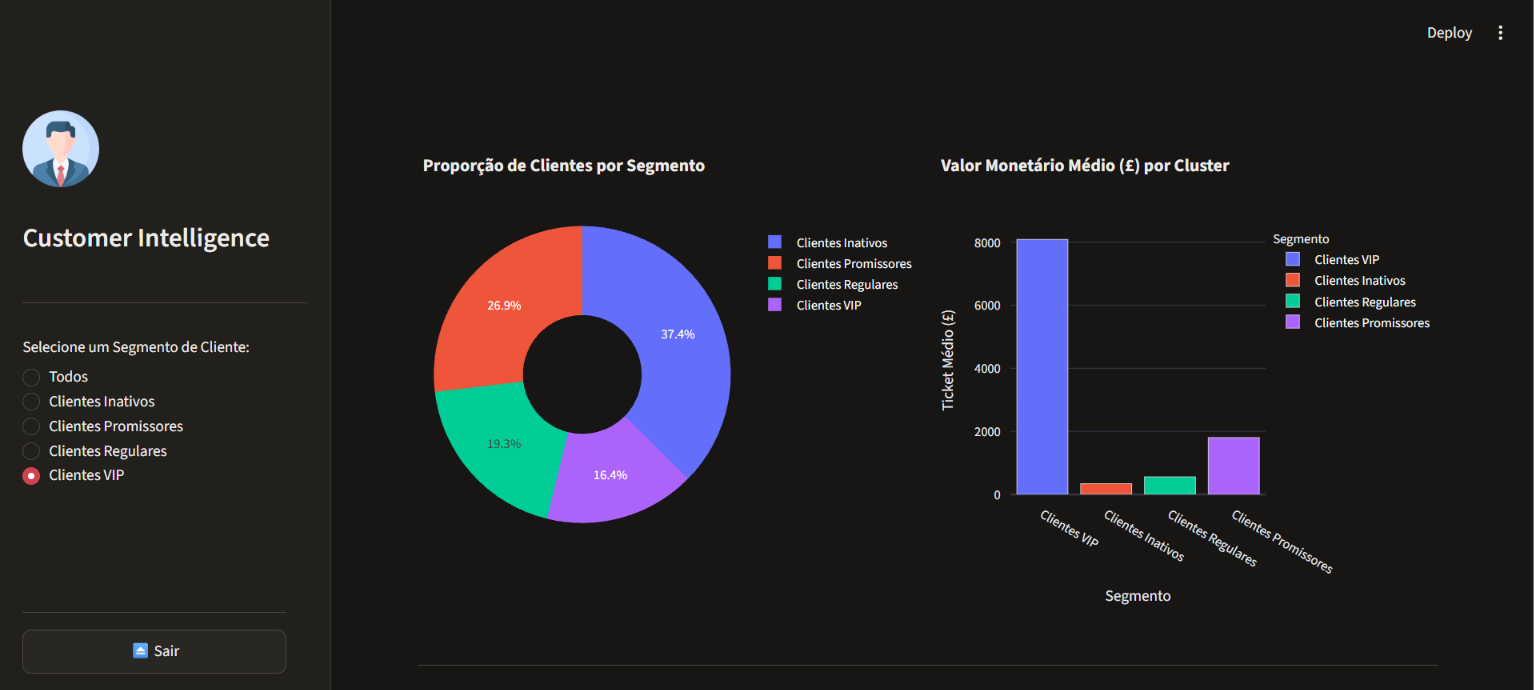
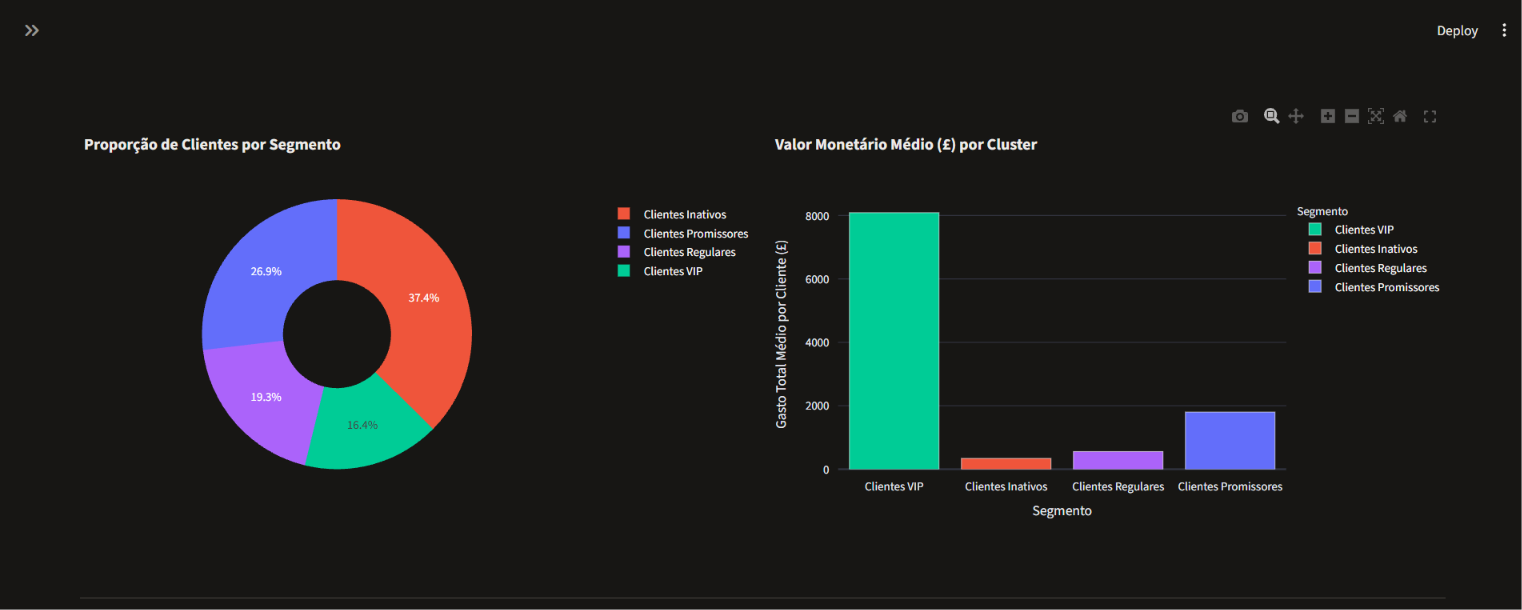
fix: padroniza cores dos graficos, corrige metricas RFM e quebra de linha no push

diff --git a/app.py b/app.py
@@ -16,6 +16,16 @@ st.set_page_config(
 )
 
 # -----------------------------------------------------------------------------
+# Dicionário de cores para os gráficos (usado no Plotly)
+# -----------------------------------------------------------------------------
+CORES_SEGMENTOS = {
+    "Clientes VIP": "#00CC96",          # Verde destaque (ou #EF553B / #636EFA)
+    "Clientes Promissores": "#636EFA",  # Azul
+    "Clientes Regulares": "#AB63FA",    # Roxo
+    "Clientes Inativos": "#EF553B"      # Vermelho/Laranja alerta
+}
+
+# -----------------------------------------------------------------------------
 # Carregar CSS personalizado
 # -----------------------------------------------------------------------------
 
@@ -158,7 +168,7 @@ else:
             
         with col_persona2:
             st.markdown("### 📱 Copy para Notificação Push (Mobile)")
-            st.code(persona_info.get("copy_notificacao_push", "N/A"), language="markdown")
+            st.info(persona_info.get("copy_notificacao_push", "N/A"))
             st.caption("Esta mensagem foi formulada automaticamente com base nas estatísticas RFM do grupo para uso em campanhas de CRM.")
     else:
         st.warning("Nenhuma informação de IA encontrada para este segmento.")
@@ -170,14 +180,13 @@ st.markdown("---")
 # -----------------------------------------------------------------------------
 st.subheader("📊 Análise Visual da Segmentação (K-Means)")
 
-tab1, tab2, tab3 = st.columns(3)
-
 # Gráfico 1: Dispersão Recência vs Monetário
 fig_dispersion = px.scatter(
     df_rfm,
     x="Recency",
     y="Monetary",
     color="Segmento",
+    color_discrete_map=CORES_SEGMENTOS,  # ALTERAÇÃO 2: Aplica o mapa de cores fixo na dispersão
     size="Frequency",
     hover_data=["CustomerID"],
     log_y=True,
@@ -195,6 +204,8 @@ with col_chart1:
         df_resumo,
         names="Segmento",
         values="Quantidade_Clientes",
+        color="Segmento",                   
+        color_discrete_map=CORES_SEGMENTOS, 
         title="Proporção de Clientes por Segmento",
         hole=0.4,
         template="plotly_white"
@@ -208,8 +219,9 @@ with col_chart2:
         x="Segmento",
         y="Monetary",
         color="Segmento",
+        color_discrete_map=CORES_SEGMENTOS, 
         title="Valor Monetário Médio (£) por Cluster",
-        labels={"Monetary": "Ticket Médio (£)"},
+        labels={"Monetary": "Gasto Total Médio por Cliente (£)"}, 
         template="plotly_white"
     )
     st.plotly_chart(fig_bar, use_container_width=True)
